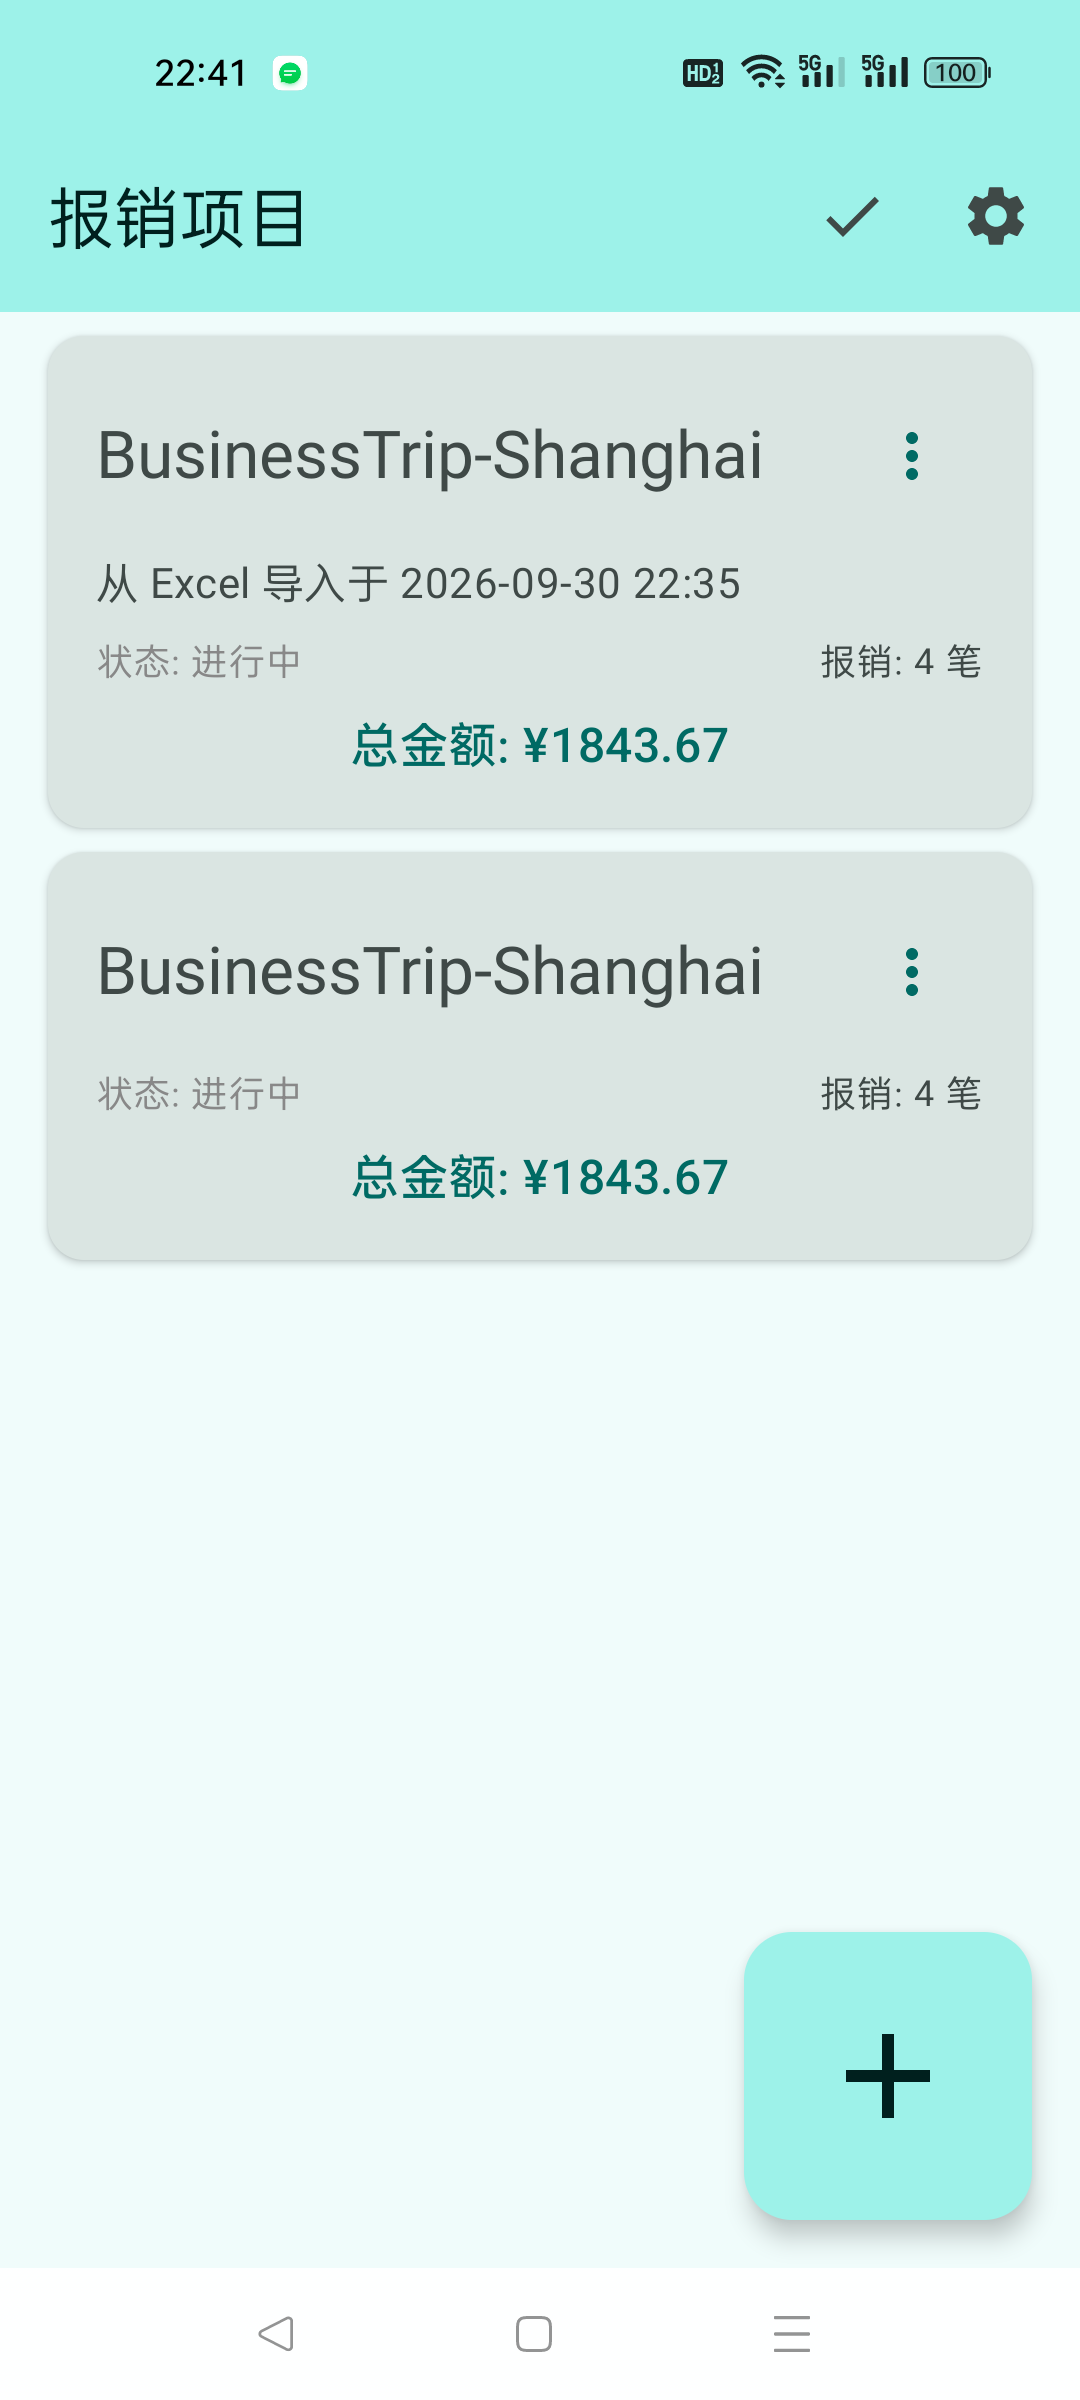
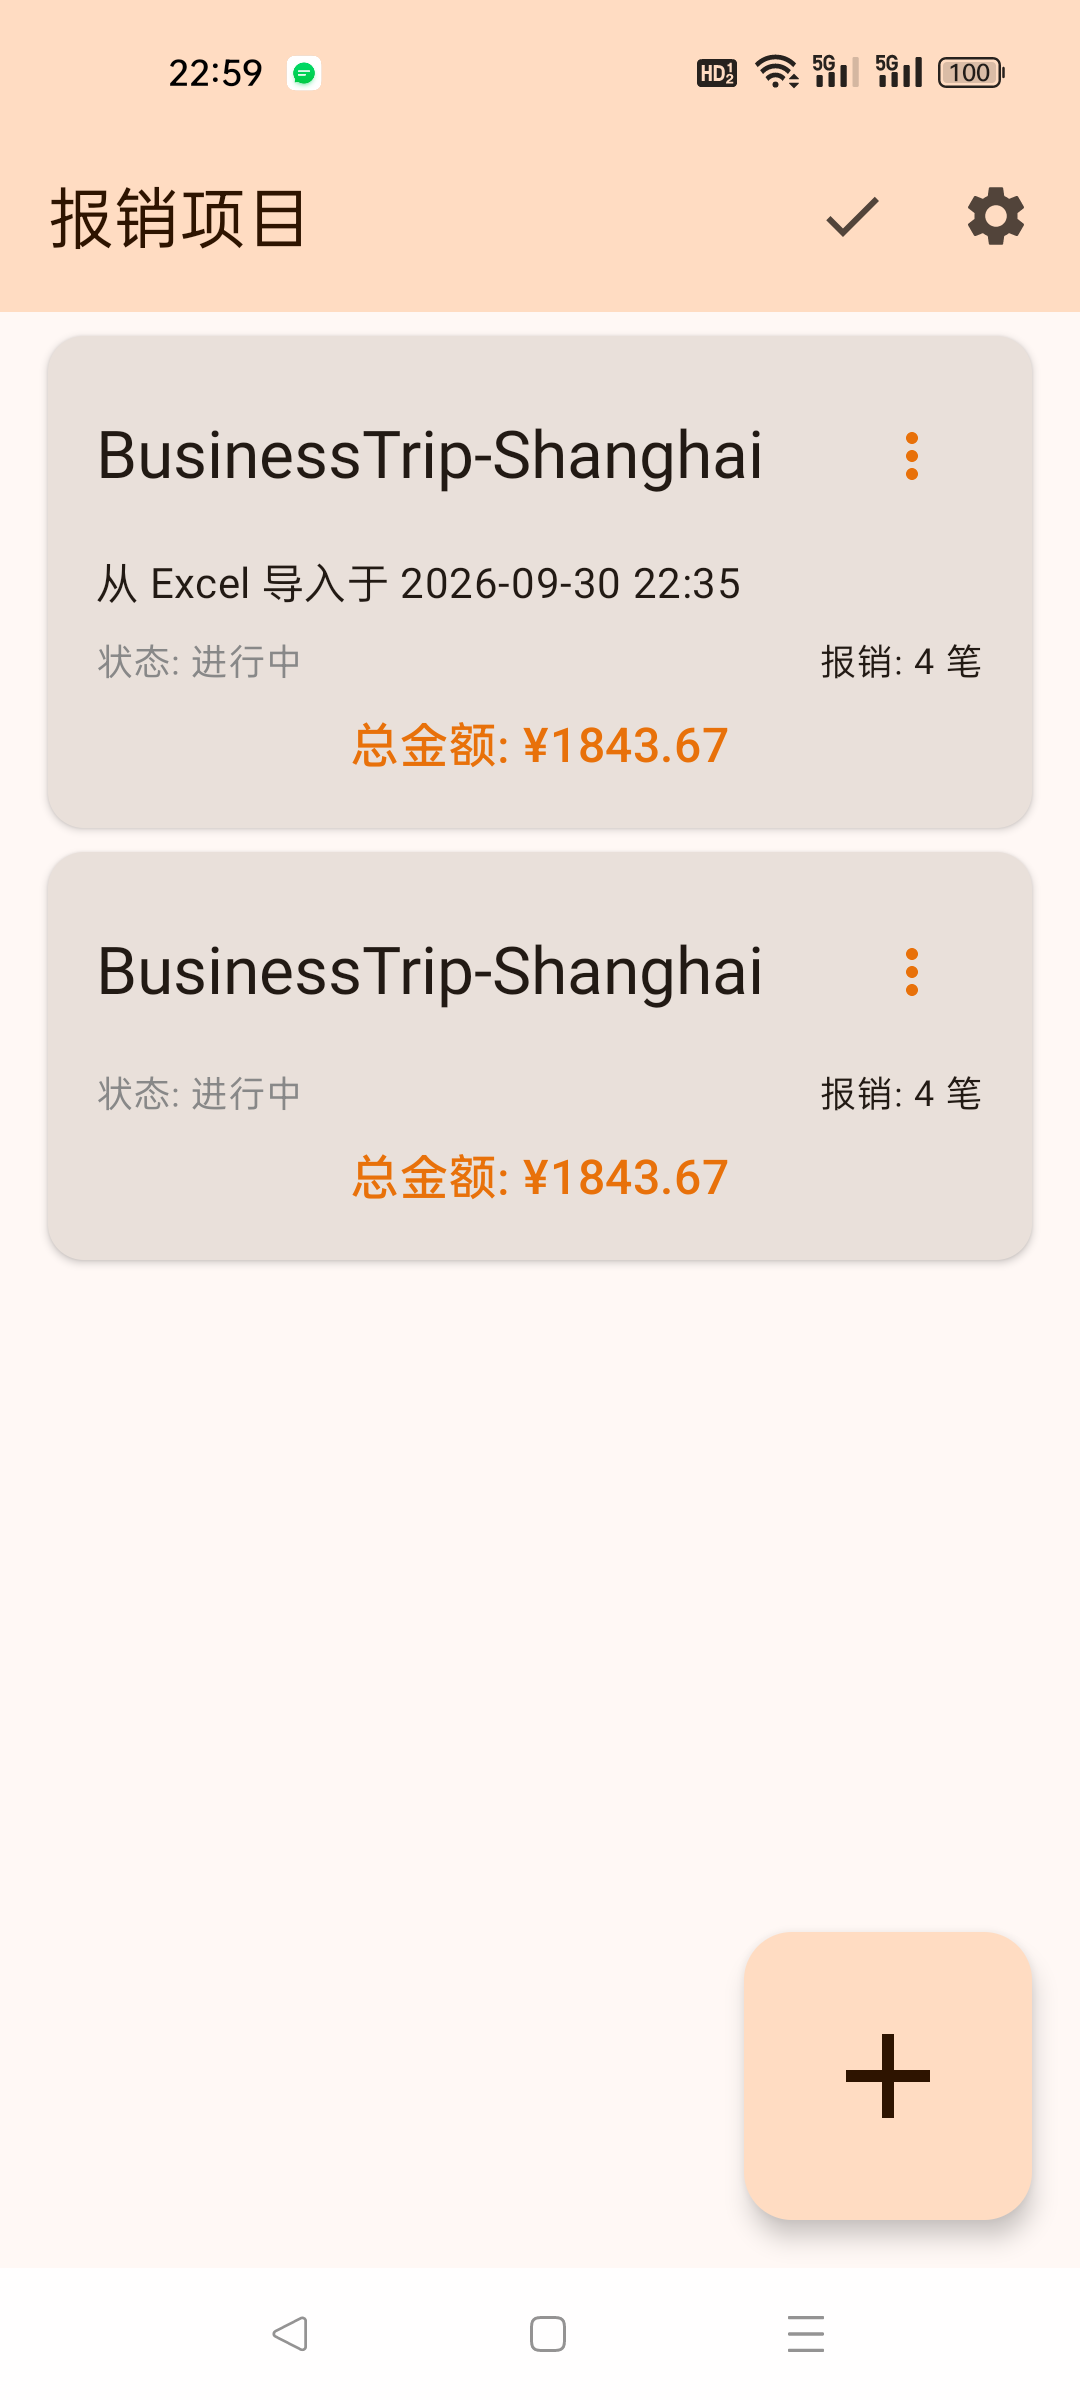
style: 主题色改为固定橘黄，不再跟随壁纸动态取色
之前 FaP2Theme 的 dynamicColor 默认为 true，Android 12+ 上整个 UI 的颜色都由系统
从壁纸里抽取，壁纸偏青就整个应用变成浅青色，无法控制。

- 新增橘黄配色方案（种子色 ≈ #E8710A），浅色 / 深色两套，覆盖完整的 M3 颜色角色
- dynamicColor 默认改为 false（参数保留，需要时仍可显式开启）
- 补齐 surfaceDim / surfaceBright / surfaceContainer* / surfaceTint：
  不显式覆盖时 lightColorScheme() 会沿用 Material 基线的紫调中性色，
  弹窗与卡片会透出 #ECE6F0 这种不合调的淡紫
- 详情页顶栏补上 topAppBarColors，之前漏配导致它是默认白底，与列表页不一致；
  状态文字改用 onPrimaryContainer 系列，原 primary / Color.Gray 落在橘色底上对比度不足
- 同步更新 README 里的界面截图

diff --git a/app/src/main/java/com/qqmmxx/piaojia/ui/theme/Theme.kt b/app/src/main/java/com/qqmmxx/piaojia/ui/theme/Theme.kt
@@ -1,6 +1,5 @@
 package com.qqmmxx.piaojia.ui.theme
 
-import android.app.Activity
 import android.os.Build
 import androidx.compose.foundation.isSystemInDarkTheme
 import androidx.compose.material3.MaterialTheme
@@ -11,33 +10,91 @@ import androidx.compose.material3.lightColorScheme
 import androidx.compose.runtime.Composable
 import androidx.compose.ui.platform.LocalContext
 
-private val DarkColorScheme = darkColorScheme(
-    primary = Purple80,
-    secondary = PurpleGrey80,
-    tertiary = Pink80
+private val LightColors = lightColorScheme(
+    primary = OrangePrimary,
+    onPrimary = OrangeOnPrimary,
+    primaryContainer = OrangePrimaryContainer,
+    onPrimaryContainer = OrangeOnPrimaryContainer,
+    inversePrimary = OrangeInversePrimary,
+    secondary = OrangeSecondary,
+    onSecondary = OrangeOnSecondary,
+    secondaryContainer = OrangeSecondaryContainer,
+    onSecondaryContainer = OrangeOnSecondaryContainer,
+    tertiary = OrangeTertiary,
+    onTertiary = OrangeOnTertiary,
+    tertiaryContainer = OrangeTertiaryContainer,
+    onTertiaryContainer = OrangeOnTertiaryContainer,
+    error = OrangeError,
+    onError = OrangeOnError,
+    errorContainer = OrangeErrorContainer,
+    onErrorContainer = OrangeOnErrorContainer,
+    background = OrangeBackground,
+    onBackground = OrangeOnBackground,
+    surface = OrangeSurface,
+    onSurface = OrangeOnSurface,
+    surfaceVariant = OrangeSurfaceVariant,
+    onSurfaceVariant = OrangeOnSurfaceVariant,
+    outline = OrangeOutline,
+    outlineVariant = OrangeOutlineVariant,
+    inverseSurface = OrangeInverseSurface,
+    inverseOnSurface = OrangeInverseOnSurface,
+    // surfaceTint 默认是 Material 基线的紫色，不显式指定的话 Elevation 会有淡紫染色
+    surfaceTint = OrangePrimary,
+    surfaceDim = OrangeSurfaceDim,
+    surfaceBright = OrangeSurfaceBright,
+    surfaceContainerLowest = OrangeSurfaceContainerLowest,
+    surfaceContainerLow = OrangeSurfaceContainerLow,
+    surfaceContainer = OrangeSurfaceContainer,
+    surfaceContainerHigh = OrangeSurfaceContainerHigh,
+    surfaceContainerHighest = OrangeSurfaceContainerHighest
 )
 
-private val LightColorScheme = lightColorScheme(
-    primary = Purple40,
-    secondary = PurpleGrey40,
-    tertiary = Pink40
-
-    /* Other default colors to override
-    background = Color(0xFFFFFBFE),
-    surface = Color(0xFFFFFBFE),
-    onPrimary = Color.White,
-    onSecondary = Color.White,
-    onTertiary = Color.White,
-    onBackground = Color(0xFF1C1B1F),
-    onSurface = Color(0xFF1C1B1F),
-    */
+private val DarkColors = darkColorScheme(
+    primary = OrangePrimaryDark,
+    onPrimary = OrangeOnPrimaryDark,
+    primaryContainer = OrangePrimaryContainerDark,
+    onPrimaryContainer = OrangeOnPrimaryContainerDark,
+    inversePrimary = OrangePrimary,
+    secondary = OrangeSecondaryDark,
+    onSecondary = OrangeOnSecondaryDark,
+    secondaryContainer = OrangeSecondaryContainerDark,
+    onSecondaryContainer = OrangeOnSecondaryContainerDark,
+    tertiary = OrangeTertiaryDark,
+    onTertiary = OrangeOnTertiaryDark,
+    tertiaryContainer = OrangeTertiaryContainerDark,
+    onTertiaryContainer = OrangeOnTertiaryContainerDark,
+    error = OrangeErrorDark,
+    onError = OrangeOnErrorDark,
+    errorContainer = OrangeErrorContainerDark,
+    onErrorContainer = OrangeOnErrorContainerDark,
+    background = OrangeBackgroundDark,
+    onBackground = OrangeOnBackgroundDark,
+    surface = OrangeSurfaceDark,
+    onSurface = OrangeOnSurfaceDark,
+    surfaceVariant = OrangeSurfaceVariantDark,
+    onSurfaceVariant = OrangeOnSurfaceVariantDark,
+    outline = OrangeOutlineDark,
+    outlineVariant = OrangeOutlineVariantDark,
+    inverseSurface = OrangeInverseSurfaceDark,
+    inverseOnSurface = OrangeInverseOnSurfaceDark,
+    surfaceTint = OrangePrimaryDark,
+    surfaceDim = OrangeSurfaceDimDark,
+    surfaceBright = OrangeSurfaceBrightDark,
+    surfaceContainerLowest = OrangeSurfaceContainerLowestDark,
+    surfaceContainerLow = OrangeSurfaceContainerLowDark,
+    surfaceContainer = OrangeSurfaceContainerDark,
+    surfaceContainerHigh = OrangeSurfaceContainerHighDark,
+    surfaceContainerHighest = OrangeSurfaceContainerHighestDark
 )
 
+/**
+ * @param dynamicColor 默认关闭。之前默认开启，颜色完全跟着壁纸走，
+ *   壁纸偏青整个 App 就变浅青色 —— 想要固定的橘黄必须关掉它。
+ */
 @Composable
 fun FaP2Theme(
     darkTheme: Boolean = isSystemInDarkTheme(),
-    // Dynamic color is available on Android 12+
-    dynamicColor: Boolean = true,
+    dynamicColor: Boolean = false,
     content: @Composable () -> Unit
 ) {
     val colorScheme = when {
@@ -46,8 +103,8 @@ fun FaP2Theme(
             if (darkTheme) dynamicDarkColorScheme(context) else dynamicLightColorScheme(context)
         }
 
-        darkTheme -> DarkColorScheme
-        else -> LightColorScheme
+        darkTheme -> DarkColors
+        else -> LightColors
     }
 
     MaterialTheme(

diff --git a/app/src/main/java/com/qqmmxx/piaojia/ui/theme/Color.kt b/app/src/main/java/com/qqmmxx/piaojia/ui/theme/Color.kt
@@ -2,10 +2,92 @@ package com.qqmmxx.piaojia.ui.theme
 
 import androidx.compose.ui.graphics.Color
 
-val Purple80 = Color(0xFFD0BCFF)
-val PurpleGrey80 = Color(0xFFCCC2DC)
-val Pink80 = Color(0xFFEFB8C8)
+/**
+ * 橘黄色主题配色（Material 3 角色，种子色 ≈ #E8710A）。
+ *
+ * 之前整个应用用的是 dynamicColor，颜色由系统从壁纸里抽，所以会随壁纸变成任意色
+ * （比如壁纸偏青就整个 UI 都是浅青色）。现在固定成橘黄，不再跟随壁纸。
+ */
 
-val Purple40 = Color(0xFF6650a4)
-val PurpleGrey40 = Color(0xFF625b71)
-val Pink40 = Color(0xFF7D5260)
+// ---------- 浅色 ----------
+val OrangePrimary = Color(0xFFE8710A)
+val OrangeOnPrimary = Color(0xFFFFFFFF)
+val OrangePrimaryContainer = Color(0xFFFFDCC2)
+val OrangeOnPrimaryContainer = Color(0xFF2E1400)
+val OrangeInversePrimary = Color(0xFFFFB77C)
+
+val OrangeSecondary = Color(0xFF755845)
+val OrangeOnSecondary = Color(0xFFFFFFFF)
+val OrangeSecondaryContainer = Color(0xFFFFDCC2)
+val OrangeOnSecondaryContainer = Color(0xFF2A1706)
+
+val OrangeTertiary = Color(0xFF61603A)
+val OrangeOnTertiary = Color(0xFFFFFFFF)
+val OrangeTertiaryContainer = Color(0xFFE7E5B4)
+val OrangeOnTertiaryContainer = Color(0xFF1D1D00)
+
+val OrangeError = Color(0xFFBA1A1A)
+val OrangeOnError = Color(0xFFFFFFFF)
+val OrangeErrorContainer = Color(0xFFFFDAD6)
+val OrangeOnErrorContainer = Color(0xFF410002)
+
+val OrangeBackground = Color(0xFFFFF8F5)
+val OrangeOnBackground = Color(0xFF221A14)
+val OrangeSurface = Color(0xFFFFF8F5)
+val OrangeOnSurface = Color(0xFF221A14)
+val OrangeSurfaceVariant = Color(0xFFF4DED1)
+val OrangeOnSurfaceVariant = Color(0xFF52443A)
+val OrangeOutline = Color(0xFF85736A)
+val OrangeOutlineVariant = Color(0xFFD7C2B5)
+val OrangeInverseSurface = Color(0xFF382E29)
+val OrangeInverseOnSurface = Color(0xFFFCEEE5)
+
+// 暖色中性面。不显式覆盖的话，lightColorScheme() 会用 Material 基线的紫调灰
+// （例如 surfaceContainerHigh = #ECE6F0），弹窗和卡片就会透出一层不合调的淡紫。
+val OrangeSurfaceDim = Color(0xFFE4D8D1)
+val OrangeSurfaceBright = Color(0xFFFFF8F5)
+val OrangeSurfaceContainerLowest = Color(0xFFFFFFFF)
+val OrangeSurfaceContainerLow = Color(0xFFFBF2ED)
+val OrangeSurfaceContainer = Color(0xFFF5ECE6)
+val OrangeSurfaceContainerHigh = Color(0xFFEFE6E0)
+val OrangeSurfaceContainerHighest = Color(0xFFE9E0DA)
+
+// ---------- 深色 ----------
+val OrangePrimaryDark = Color(0xFFFFB77C)
+val OrangeOnPrimaryDark = Color(0xFF4C2700)
+val OrangePrimaryContainerDark = Color(0xFF6D3A00)
+val OrangeOnPrimaryContainerDark = Color(0xFFFFDCC2)
+
+val OrangeSecondaryDark = Color(0xFFE4C0A4)
+val OrangeOnSecondaryDark = Color(0xFF422B16)
+val OrangeSecondaryContainerDark = Color(0xFF5A412A)
+val OrangeOnSecondaryContainerDark = Color(0xFFFFDCC2)
+
+val OrangeTertiaryDark = Color(0xFFCBCA98)
+val OrangeOnTertiaryDark = Color(0xFF323200)
+val OrangeTertiaryContainerDark = Color(0xFF48481F)
+val OrangeOnTertiaryContainerDark = Color(0xFFE7E5B4)
+
+val OrangeErrorDark = Color(0xFFFFB4AB)
+val OrangeOnErrorDark = Color(0xFF690005)
+val OrangeErrorContainerDark = Color(0xFF93000A)
+val OrangeOnErrorContainerDark = Color(0xFFFFDAD6)
+
+val OrangeBackgroundDark = Color(0xFF1A120B)
+val OrangeOnBackgroundDark = Color(0xFFF0DFD6)
+val OrangeSurfaceDark = Color(0xFF1A120B)
+val OrangeOnSurfaceDark = Color(0xFFF0DFD6)
+val OrangeSurfaceVariantDark = Color(0xFF52443A)
+val OrangeOnSurfaceVariantDark = Color(0xFFD7C2B5)
+val OrangeOutlineDark = Color(0xFF9F8D82)
+val OrangeOutlineVariantDark = Color(0xFF52443A)
+val OrangeInverseSurfaceDark = Color(0xFFF0DFD6)
+val OrangeInverseOnSurfaceDark = Color(0xFF382E29)
+
+val OrangeSurfaceDimDark = Color(0xFF1A120B)
+val OrangeSurfaceBrightDark = Color(0xFF423830)
+val OrangeSurfaceContainerLowestDark = Color(0xFF140D07)
+val OrangeSurfaceContainerLowDark = Color(0xFF221A14)
+val OrangeSurfaceContainerDark = Color(0xFF271E18)
+val OrangeSurfaceContainerHighDark = Color(0xFF32281F)
+val OrangeSurfaceContainerHighestDark = Color(0xFF3D332A)

diff --git a/app/src/main/java/com/qqmmxx/piaojia/ui/screens/ProjectDetailScreen.kt b/app/src/main/java/com/qqmmxx/piaojia/ui/screens/ProjectDetailScreen.kt
@@ -51,6 +51,7 @@ import androidx.compose.material3.Scaffold
 import androidx.compose.material3.Text
 import androidx.compose.material3.TextButton
 import androidx.compose.material3.TopAppBar
+import androidx.compose.material3.TopAppBarDefaults
 import androidx.compose.runtime.Composable
 import androidx.compose.runtime.LaunchedEffect
 import androidx.compose.runtime.collectAsState
@@ -156,10 +157,11 @@ fun ProjectDetailScreen(
                         Text(
                             text = if (currentProject.isCompleted) "已完成" else "进行中",
                             style = MaterialTheme.typography.bodySmall,
-                            color = if (currentProject.isCompleted) 
-                                MaterialTheme.colorScheme.primary 
-                            else 
-                                Color.Gray
+                            // 顶栏底色是 primaryContainer，这里必须用 onPrimaryContainer 系列，
+                            // 原来的 primary / Color.Gray 落在橘色底上对比度不够
+                            color = MaterialTheme.colorScheme.onPrimaryContainer.copy(
+                                alpha = if (currentProject.isCompleted) 1f else 0.65f
+                            )
                         )
                     }
                 },
@@ -247,7 +249,14 @@ fun ProjectDetailScreen(
                             }
                         }
                     }
-                }
+                },
+                // 与列表页保持一致：顶栏用 primaryContainer，否则详情页会是默认的白底
+                colors = TopAppBarDefaults.topAppBarColors(
+                    containerColor = MaterialTheme.colorScheme.primaryContainer,
+                    titleContentColor = MaterialTheme.colorScheme.onPrimaryContainer,
+                    navigationIconContentColor = MaterialTheme.colorScheme.onPrimaryContainer,
+                    actionIconContentColor = MaterialTheme.colorScheme.onPrimaryContainer
+                )
             )
         },
         floatingActionButton = {
